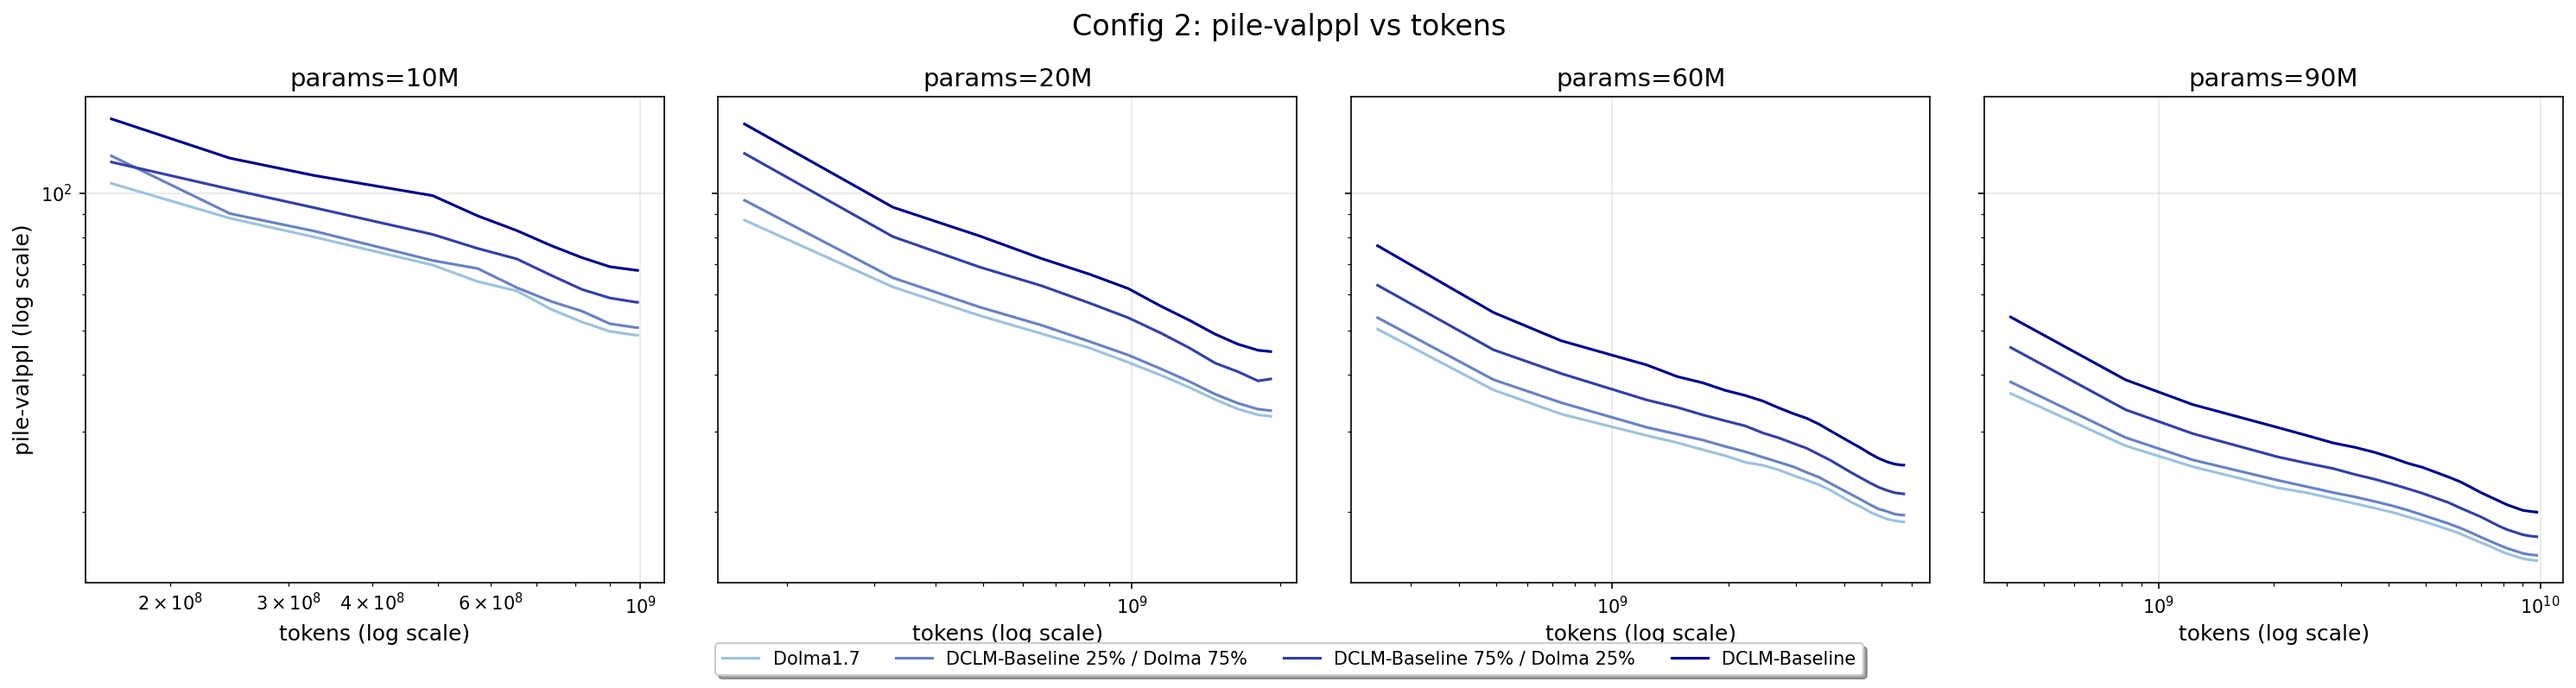
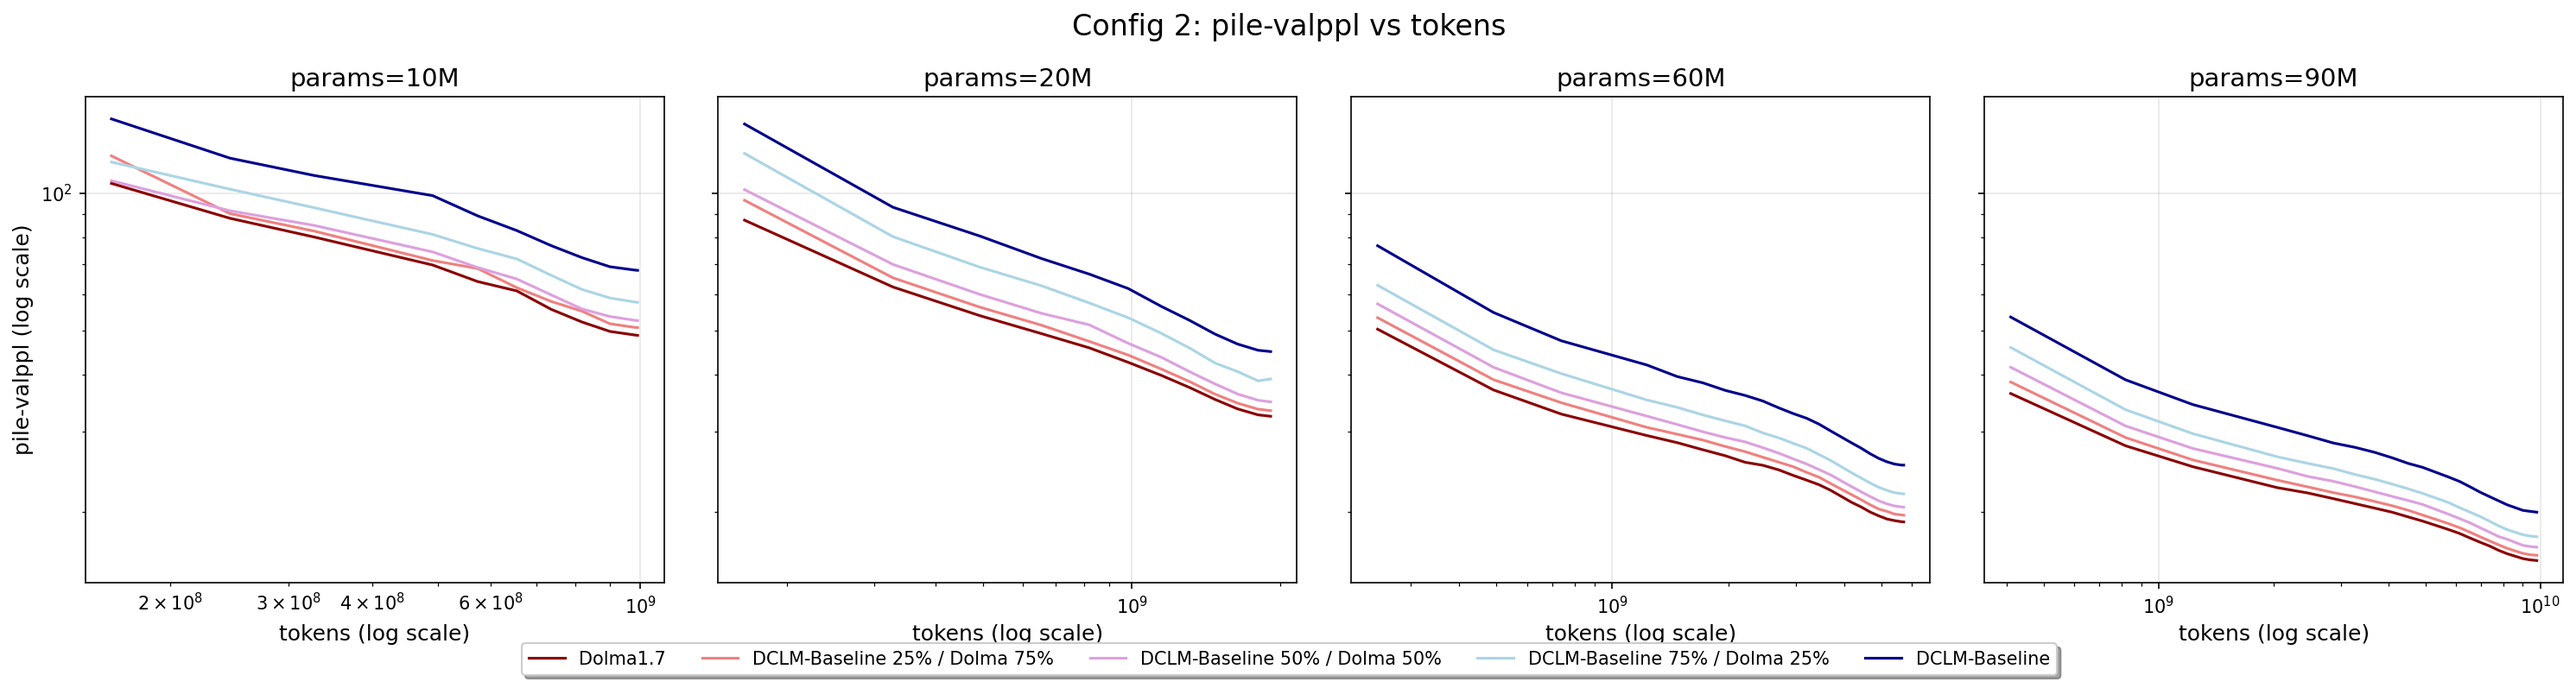
enable 50/50 recipe

diff --git a/scripts/test_plotting.py b/scripts/test_plotting.py
@@ -376,7 +376,7 @@ def main():
     test_data = [
         "Dolma1.7",
         "DCLM-Baseline 25% / Dolma 75%",
-        # "DCLM-Baseline 50% / Dolma 50%",
+        "DCLM-Baseline 50% / Dolma 50%",
         "DCLM-Baseline 75% / Dolma 25%",
         "DCLM-Baseline",
     ]
@@ -404,9 +404,8 @@ def main():
             ncols=len(test_data),  # Single row matching number of data subplots
             figsize=(len(test_data) * 5, 5),  # Wider figure for single row
             sharey=True,  # Share y-axis across subplots
-            two_color_start="red",  # Light blue for small models
-            two_color_end="lightblue",  # Dark blue for large models
-            color_range_min=0.3,
+            multi_color_sequence=["darkred", "lightcoral", "plum", "lightblue", "darkblue"],  # 5-color progression
+            color_range_min=0.0,  # Use full range for 5-color progression
             color_range_max=1.0,
         )
         fig1, fm1 = builder1.build()
@@ -455,10 +454,9 @@ def main():
                 ncols=len(test_params),  # Single row matching number of param subplots
                 figsize=(len(test_params) * 5, 5),  # Wider figure for single row
                 sharey=True,  # Share y-axis across subplots
-                two_color_start="lightblue",  # Light blue for data recipes
-                two_color_end="darkblue",  # Dark red for data recipes
-                color_range_min=0.1,  # Start from 30% of colormap (more visible)
-                color_range_max=1.0,  # End at 90% of colormap (not too dark)
+                multi_color_sequence=["darkred", "lightcoral", "plum", "lightblue", "darkblue"],  # Same 5-color progression as Config 1
+                color_range_min=0.0,  # Use full range for 5-color progression
+                color_range_max=1.0,
             )
         )
         fig2, fm2 = builder2.build()
@@ -477,9 +475,20 @@ def main():
     # Configuration 3: Different metric (MMLU instead of perplexity)
     print("\n=== Configuration 3: MMLU metric ===")
     try:
+        # Sort the DataFrame by data column according to test_data order before plotting (same as Config 2)
+        # Create a mapping of data values to their position in test_data list
+        data_order_map = {data_val: i for i, data_val in enumerate(test_data)}
+        
+        # Add a temporary sort column and sort the DataFrame
+        df_sorted_config3 = df.copy()
+        df_sorted_config3["_temp_data_order"] = df_sorted_config3["data"].map(data_order_map)
+        df_sorted_config3 = df_sorted_config3.sort_values("_temp_data_order").drop(
+            columns=["_temp_data_order"]
+        )
+        
         # Another concise example showing different metric
         builder3 = (
-            ScalingPlotBuilder(df)
+            ScalingPlotBuilder(df_sorted_config3)  # Use sorted DataFrame
             .with_params(test_params)
             .with_data(test_data)
             .configure(
@@ -487,10 +496,9 @@ def main():
                 title_prefix="Config 3",
                 ncols=len(test_data),  # Single row matching number of data subplots
                 sharey=True,  # Share y-axis for this metric comparison
-                two_color_start="lightblue",  # Light blue for small models (same as Config 1)
-                two_color_end="darkblue",  # Dark blue for large models (same as Config 1)
-                color_range_min=0.1,  # Start from 30% of colormap (more visible)
-                color_range_max=1.0,  # End at 90% of colormap (not too dark)
+                multi_color_sequence=["darkred", "lightcoral", "plum", "lightblue", "darkblue"],  # Same 5-color progression as Config 1
+                color_range_min=0.0,  # Use full range for 5-color progression
+                color_range_max=1.0,
             )
         )
         fig3, fm3 = builder3.build()
@@ -525,12 +533,13 @@ def main():
                     ncols=2,  # Single row with 2 columns (for 2 metrics)
                     figsize=(10, 5),  # Wider figure for single row
                     sharey=False,  # Don't share y-axis (different metrics have different scales)
+                    multi_color_sequence=["darkred", "lightcoral", "plum", "lightblue", "darkblue"],  # Same 5-color progression for data recipes
                     linestyle_sequence=[
                         "-",
                         "--",
                         "-.",
                         ":",
-                    ],  # Solid to dotted progression
+                    ],  # Solid to dotted progression for model sizes
                 )
             )
             fig4, fm4 = builder4.build()

diff --git a/src/datadec/plotting/base.py b/src/datadec/plotting/base.py
@@ -146,9 +146,13 @@ class BasePlotBuilder:
         """
         subplot_values = self.plot_df[subplot_col].unique()
         
-        # Sort params values if needed
+        # Sort values based on column type and available filters
         if 'params' in subplot_col:
             subplot_values = _sort_params_values(subplot_values)
+        elif subplot_col == 'data' and self.config.get('subplot_filter'):
+            # For data subplots, use the filter order if available (from with_data method)
+            filter_order = self.config['subplot_filter']
+            subplot_values = [val for val in filter_order if val in subplot_values]
         else:
             subplot_values = sorted(subplot_values)
         
@@ -203,6 +207,7 @@ class BasePlotBuilder:
     def _generate_sequential_colors(self, hue_values: List[str], colormap: str = 'plasma', 
                                   color_range_min: float = 0.1, color_range_max: float = 1.0,
                                   two_color_start: str = None, two_color_end: str = None,
+                                  multi_color_sequence: List[str] = None,
                                   is_params: bool = False) -> Dict[str, str]:
         """
         Generate colors from a sequential colormap based on parameter values.
@@ -214,6 +219,7 @@ class BasePlotBuilder:
             color_range_max: Maximum value in colormap range (0.0=lightest, 1.0=darkest)
             two_color_start: Starting color for two-color colormap (overrides colormap if provided)
             two_color_end: Ending color for two-color colormap (overrides colormap if provided)
+            multi_color_sequence: List of colors for multi-color progression (overrides other options)
             
         Returns:
             Dictionary mapping parameter values to hex colors
@@ -229,8 +235,11 @@ class BasePlotBuilder:
             numeric_values = [(val, i) for i, val in enumerate(hue_values)]
             # No sorting - keep the intentional input order
         
-        # Get colormap (either built-in or custom two-color)
-        if two_color_start is not None and two_color_end is not None:
+        # Get colormap (priority: multi-color > two-color > built-in)
+        if multi_color_sequence is not None and len(multi_color_sequence) >= 2:
+            # Create custom multi-color colormap
+            cmap = self._create_multi_color_colormap(multi_color_sequence, 'custom_multi_color')
+        elif two_color_start is not None and two_color_end is not None:
             # Create custom two-color colormap
             cmap = self._create_two_color_colormap(two_color_start, two_color_end, 'custom_two_color')
         else:
@@ -253,7 +262,8 @@ class BasePlotBuilder:
             # Normalize to [color_range_min, color_range_max] range
             normalized = color_range_min + color_range_span * i / (n_values - 1)
             color = cmap(normalized)
-            color_map[val] = mcolors.to_hex(color)
+            color_hex = mcolors.to_hex(color)
+            color_map[val] = color_hex
         
         return color_map
 
@@ -270,6 +280,19 @@ class BasePlotBuilder:
             LinearSegmentedColormap object
         """
         colors = [start_color, end_color]
+        return LinearSegmentedColormap.from_list(name, colors)
+    
+    def _create_multi_color_colormap(self, colors: List[str], name: str = 'custom_multi') -> LinearSegmentedColormap:
+        """
+        Create a multi-color sequential colormap with custom color progression.
+        
+        Args:
+            colors: List of colors in progression order (e.g., ['darkred', 'lightcoral', 'lightblue', 'darkblue'])
+            name: Name for the colormap
+            
+        Returns:
+            LinearSegmentedColormap object
+        """
         return LinearSegmentedColormap.from_list(name, colors)
 
     def _generate_sequential_linestyles(self, style_values: List[str], 

diff --git a/src/datadec/plotting/scaling.py b/src/datadec/plotting/scaling.py
@@ -98,7 +98,8 @@ class ScalingPlotBuilder(BasePlotBuilder):
             
             # Use sequential colormap if specified  
             if (self.config.get('colormap') or 
-                (self.config.get('two_color_start') and self.config.get('two_color_end'))):
+                (self.config.get('two_color_start') and self.config.get('two_color_end')) or
+                self.config.get('multi_color_sequence')):
                 
                 # Get unique values for this subplot, preserving original filter order if available
                 hue_values = subset[self.config['line_col']].unique().tolist()
@@ -119,6 +120,7 @@ class ScalingPlotBuilder(BasePlotBuilder):
                     color_range_max=self.config.get('color_range_max', 1.0),
                     two_color_start=self.config.get('two_color_start'),
                     two_color_end=self.config.get('two_color_end'),
+                    multi_color_sequence=self.config.get('multi_color_sequence'),
                     is_params=(self.config['line_col'] == 'params')
                 )
                 
